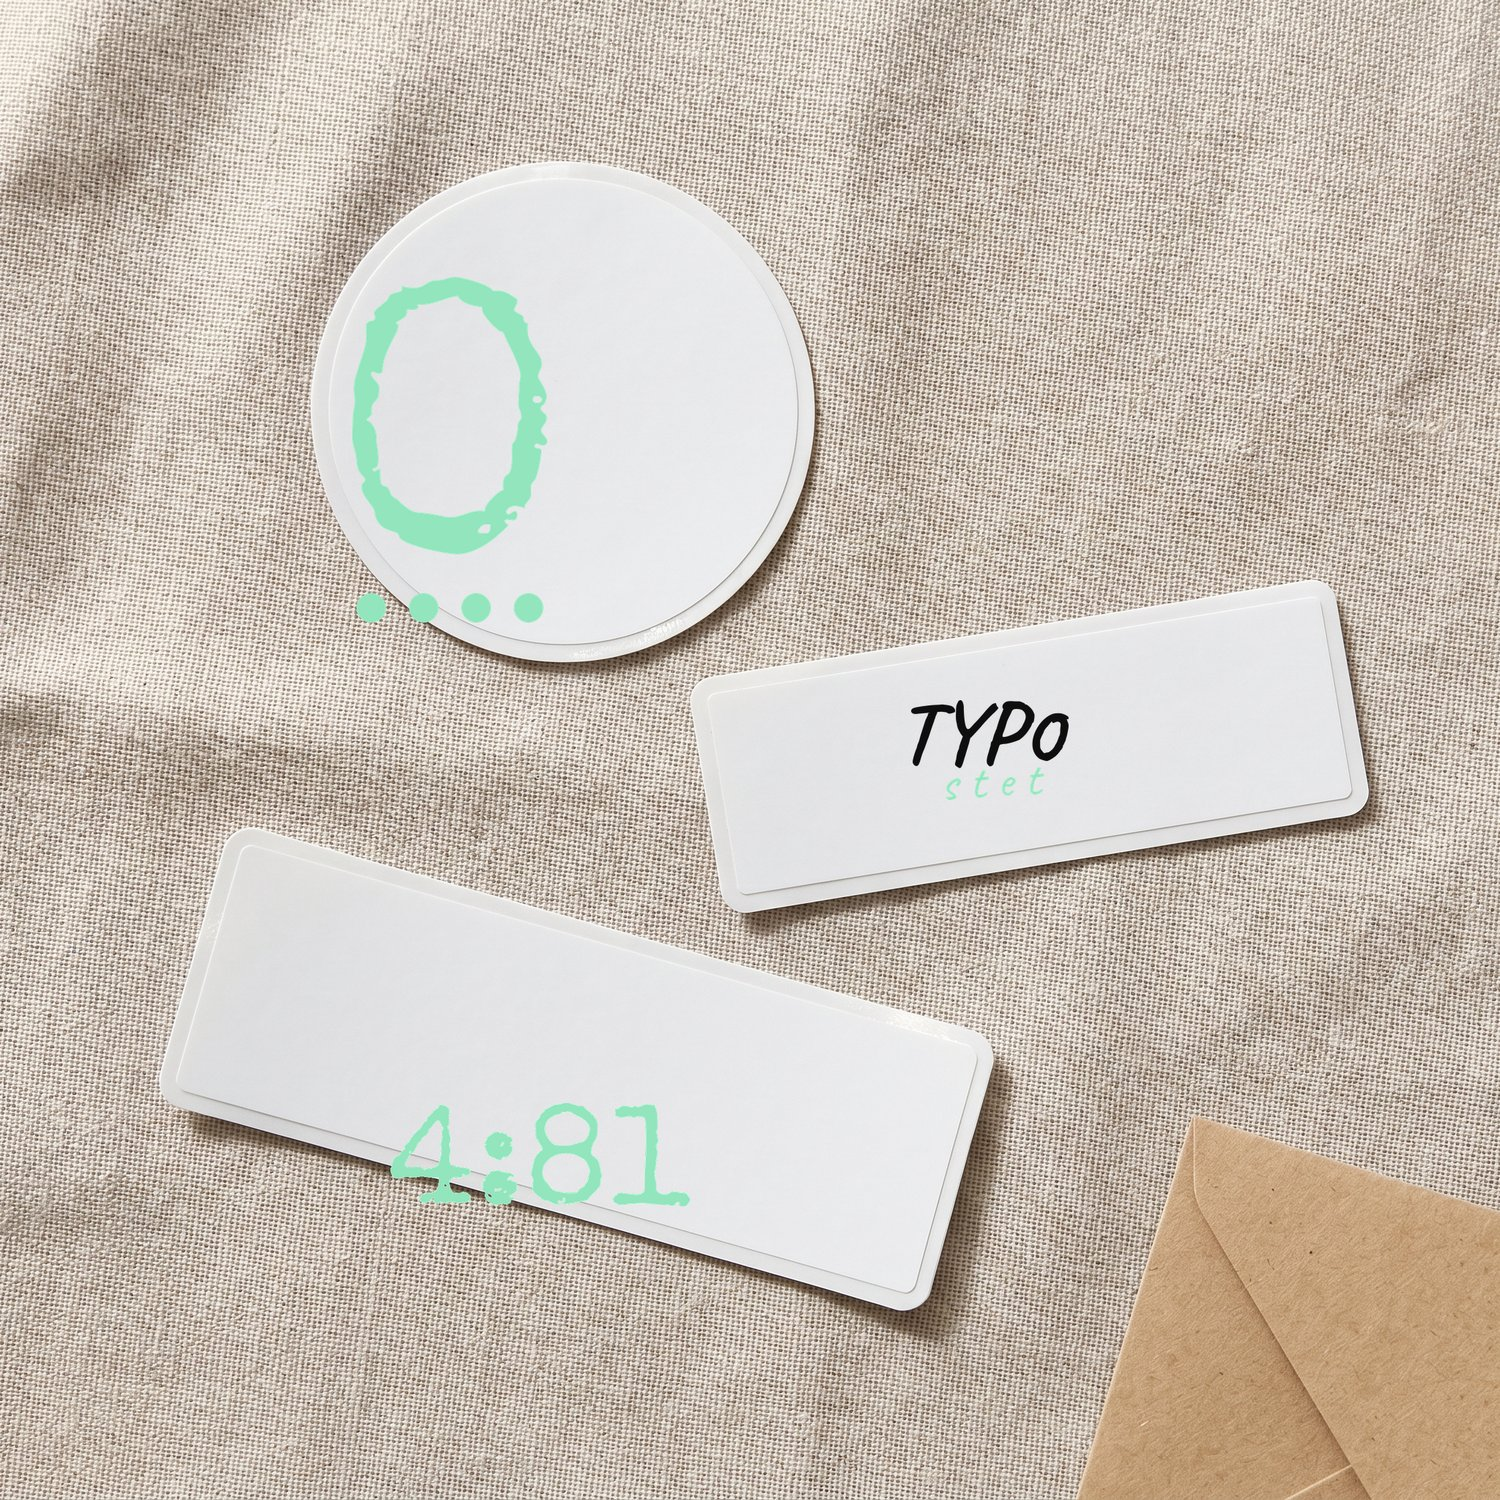
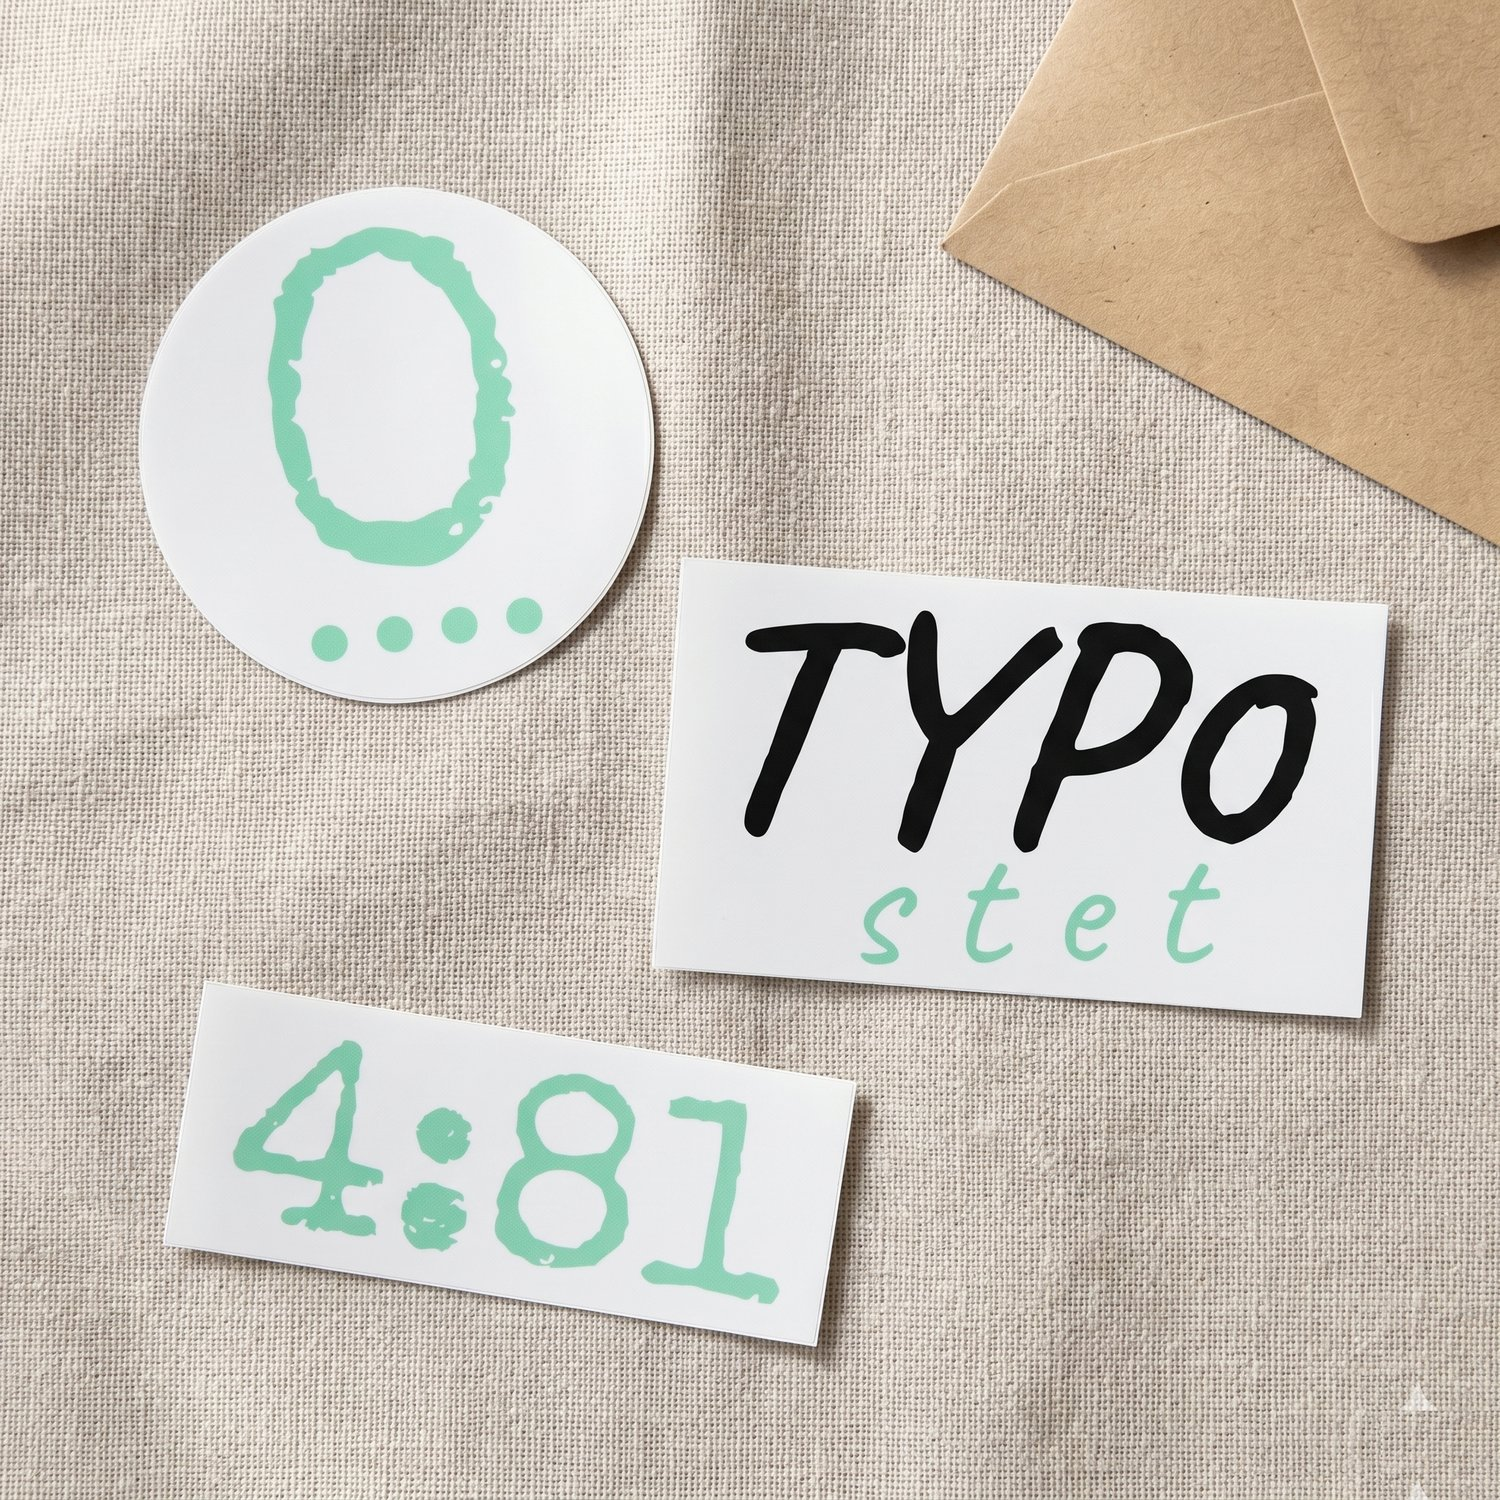
feat(objects): 5 SKU 構成 — bag color variations を独立 SKU 化
tig が Gemini で 0 monogram のみの bag/sticker 画像を生成 (3cm × 5cm
の極小 print、wordmark + 4:81 なし)。color variation を独立商品として
扱う方針に。

新 LP Objects lineup (5 card、3 col grid で 2 row):
  Sticker Pack ¥800
  Tote — Bone ¥3,800
  Tote — Ink  ¥3,800
  Knapsack — Olive ¥4,300
  Knapsack — Mint  ¥4,300

- 5 raw 画像 → /img/{sku}/raw/*-final.png に保存
- crop + Gemini ✦ watermark paint over + JPEG q85
- 新規 file name: tote-bone.jpg / tote-ink.jpg /
  knapsack-olive.jpg / knapsack-mint.jpg
  (旧 tote-main.jpg / knapsack-main.jpg を削除)
- Stripe TEST に 2 new products:
    Tote Ink     prod_UeJU19t5tp2eV2  ¥3,800
    Knapsack Mint prod_UeJUTemPaxG9Ug  ¥4,300
- LP HTML 5 card 化、PDP cross-link image ref も新名に
- products.json / llms.txt / _stripe-test-products.json 6 SKU 化

diff --git a/index.html b/index.html
@@ -974,7 +974,7 @@
     </div>
   </section>
 
-  <!-- OBJECTS (Sticker / Tote / Knapsack) -->
+  <!-- OBJECTS (Sticker / Tote Bone / Tote Ink / Knapsack Olive / Knapsack Mint) -->
   <section id="objects" class="objects reveal">
     <div class="container--wide">
       <div class="objects__head">
@@ -989,25 +989,43 @@
             <img class="object-card__photo object-card__photo--contain" src="/img/stickers/sticker-pack.jpg" alt="TYP0stet 3-piece sticker pack: 0 monogram, TYP0stet wordmark, 4:81 hand-drawn marker" loading="lazy">
           </div>
           <p class="object-card__type">Sticker Pack</p>
-          <p class="object-card__sub">0 / 4:81 / wordmark, 3 sheets</p>
+          <p class="object-card__sub">0 / wordmark / 4:81, 3 sheets</p>
           <p class="object-card__price">¥800</p>
         </a>
 
         <a class="object-card" data-color="bone" href="https://buy.stripe.com/test_dRm00k7Zsc5HfI53f36Na04" target="_blank" rel="noopener">
           <div class="object-card__visual object-card__visual--photo">
-            <img class="object-card__photo" src="/img/tote/tote-main.jpg" alt="TYP0stet 12oz cotton canvas tote bag in bone, front view with 0 monogram and 4:81 marker" loading="lazy">
+            <img class="object-card__photo" src="/img/tote/tote-bone.jpg" alt="TYP0stet 12oz cotton canvas tote bag in bone, front 0 monogram in ink black" loading="lazy">
           </div>
-          <p class="object-card__type">Tote Bag</p>
+          <p class="object-card__type">Tote — Bone</p>
           <p class="object-card__sub">12oz canvas, bone</p>
+          <p class="object-card__price">¥3,800</p>
+        </a>
+
+        <a class="object-card" data-color="bone" href="https://buy.stripe.com/test_28EeVefrU7PreE19Dr6Na08" target="_blank" rel="noopener">
+          <div class="object-card__visual object-card__visual--photo">
+            <img class="object-card__photo" src="/img/tote/tote-ink.jpg" alt="TYP0stet 12oz cotton canvas tote bag in ink black, front 0 monogram in bone cream" loading="lazy">
+          </div>
+          <p class="object-card__type">Tote — Ink</p>
+          <p class="object-card__sub">12oz canvas, ink black</p>
           <p class="object-card__price">¥3,800</p>
         </a>
 
         <a class="object-card" data-color="bone" href="https://buy.stripe.com/test_8x214oenQ2v70Nb7vj6Na07" target="_blank" rel="noopener">
           <div class="object-card__visual object-card__visual--photo">
-            <img class="object-card__photo" src="/img/knapsack/knapsack-main.jpg" alt="TYP0stet waxed cotton canvas drawstring knapsack in olive, hung on a plaster wall" loading="lazy">
+            <img class="object-card__photo" src="/img/knapsack/knapsack-olive.jpg" alt="TYP0stet waxed cotton canvas drawstring knapsack in olive, front 0 monogram in bone cream" loading="lazy">
           </div>
-          <p class="object-card__type">Knapsack</p>
+          <p class="object-card__type">Knapsack — Olive</p>
           <p class="object-card__sub">waxed cotton canvas, olive</p>
+          <p class="object-card__price">¥4,300</p>
+        </a>
+
+        <a class="object-card" data-color="bone" href="https://buy.stripe.com/test_4gM00k4NgfhT2Vj9Dr6Na09" target="_blank" rel="noopener">
+          <div class="object-card__visual object-card__visual--photo">
+            <img class="object-card__photo" src="/img/knapsack/knapsack-mint.jpg" alt="TYP0stet waxed cotton canvas drawstring knapsack in mint, front 0 monogram in ink black" loading="lazy">
+          </div>
+          <p class="object-card__type">Knapsack — Mint</p>
+          <p class="object-card__sub">waxed cotton canvas, mint</p>
           <p class="object-card__price">¥4,300</p>
         </a>
 

diff --git a/products/stet-01/index.html b/products/stet-01/index.html
@@ -689,16 +689,16 @@
       </a>
       <a href="/#objects" class="cross-card">
         <div class="cross-card__visual">
-          <img src="/img/tote/tote-main.jpg" alt="Tote Bag" loading="lazy">
+          <img src="/img/tote/tote-bone.jpg" alt="Tote Bone" loading="lazy">
         </div>
-        <p class="cross-card__name">Tote Bag</p>
+        <p class="cross-card__name">Tote — Bone</p>
         <p class="cross-card__price">¥3,800</p>
       </a>
       <a href="/#objects" class="cross-card">
         <div class="cross-card__visual">
-          <img src="/img/knapsack/knapsack-main.jpg" alt="Knapsack" loading="lazy">
+          <img src="/img/knapsack/knapsack-olive.jpg" alt="Knapsack Olive" loading="lazy">
         </div>
-        <p class="cross-card__name">Knapsack</p>
+        <p class="cross-card__name">Knapsack — Olive</p>
         <p class="cross-card__price">¥4,300</p>
       </a>
     </div>